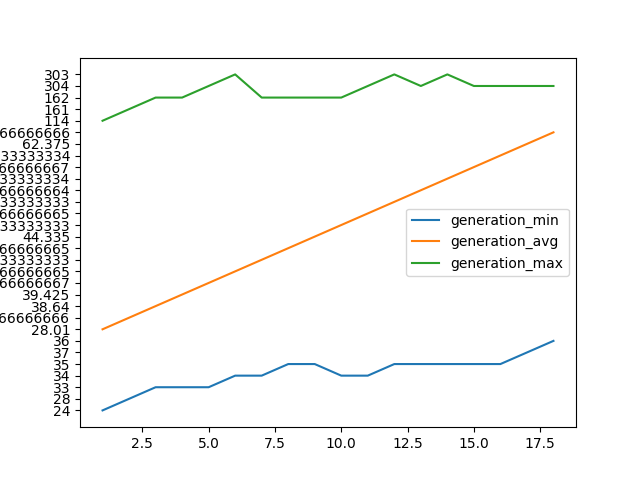
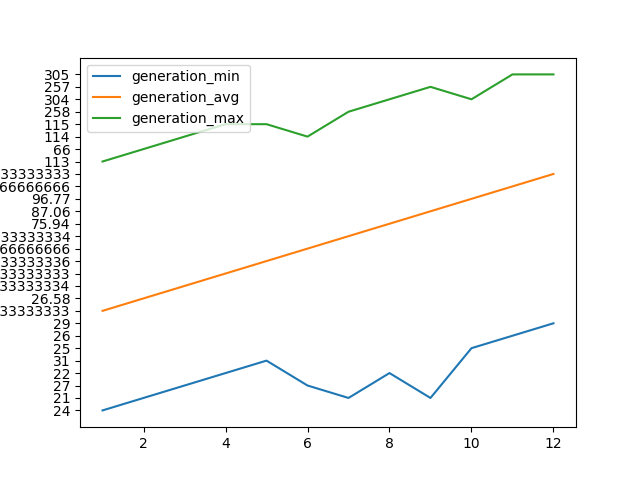
00/11/02 - 18:22 => seems to have gotten better.

diff --git a/evolutionary/evolution.py b/evolutionary/evolution.py
@@ -7,6 +7,7 @@ import random
 import numpy as np
 import math
 import redis
+from operator import attrgetter
 
 
 class Evolution:
@@ -35,6 +36,21 @@ class Evolution:
 
         return
 
+    def roulette_wheel_selection(self,players,num_players):
+        population_fitness = sum([player.fitness for player in players])
+        player_probabilities = [player.fitness/population_fitness for player in players]
+        return list(np.random.choice(players,num_players,p=player_probabilities))
+
+    def q_selection(self,players,num_players,q):
+        new_player = []
+        for i in range(0,num_players):
+            temp = list(np.random.choice(players,q))
+            # print(temp)
+            # print(temp[0])
+            max_attr = max(temp, key=attrgetter('fitness'))
+            new_player.append(max_attr)
+        return new_player
+
 
     def next_population_selection(self, players, num_players):
         """
@@ -45,13 +61,17 @@ class Evolution:
         :param num_players: number of players that we return
         """
         # TODO (Implement top-k algorithm here)
-        players = sorted(players, key=lambda x: x.fitness)
-        players.reverse()
+        rw_q_sus_sort = 2
+        if rw_q_sus_sort == 1:
+            players = self.roulette_wheel_selection(players,num_players)
+        elif rw_q_sus_sort == 2:
+            players = self.q_selection(players,num_players,3)
+        else:
+            players = sorted(players, key=lambda x: x.fitness)
+            players.reverse()
         # sorted_players = sorted_players
-
         # TODO (Additional: Implement roulette wheel here)
         # TODO (Additional: Implement SUS here)
-
         # TODO (Additional: Learning curve)
         avg = 0.0
         min_ = math.inf
@@ -86,11 +106,20 @@ class Evolution:
         else:
             # TODO ( Parent selection and child generation )
             # 1)
-            random.shuffle(prev_players)
             # 2)
             # prev_players = sorted(prev_players, key=lambda x: x.fitness)
             # prev_players.reverse()
             
+            rw_q_sus_sort = 2
+            if rw_q_sus_sort == 1:
+                prev_players = self.roulette_wheel_selection(prev_players,len(prev_players))
+            elif rw_q_sus_sort == 2:
+                prev_players = self.q_selection(prev_players,len(prev_players),2)
+            else:
+                random.shuffle(prev_players)
+
+
+
             counter = 0
             while counter != len(prev_players):
                 parent_1 = prev_players[counter]

diff --git a/evolutionary/temp.py b/evolutionary/temp.py
@@ -1,33 +1,14 @@
 
 import matplotlib.pyplot as plt
 import redis
-# x1 = [1,2,3]
-# y1 = [2,4,1]
-# plt.plot(x1, y1, label = "line 1")
- 
-# x2 = [1,2,3]
-# y2 = [4,1,3]
-# plt.plot(x2, y2, label = "line 2")
- 
-# plt.xlabel('x - axis')
-# plt.ylabel('y - axis')
-# plt.title('Two lines on same graph!')
-# plt.legend()
-# # plt.show()
-# plt.savefig('foo.png')
+import numpy as np
 
 generation = []
 generation_avg = []
 generation_max = []
 generation_min = []
 r = redis.Redis()
-keys = r.keys()
-# keys = map(lambda x:x.decode("utf-8"),keys_)
-# keys = sorted(keys) 
-# print(keys) 
-# print(keys[0]) 
-# print()
-    
+keys = r.keys()    
 for counter in range(1,int(len(keys)/3)+1):
     generation.append(counter)
     generation_max.append(r.get(f'{counter}:max').decode("utf-8"))
@@ -39,6 +20,6 @@ plt.plot(generation, generation_max, label = "generation_max")
 plt.legend()
 plt.savefig('learning_curve.png')
 
-# r.set("1:min",10)
-# print(r.get("1:min").decode("utf-8"))
-# r.flushdb()
+# lst = [1,2,3,4,5]
+# print(lst)
+# print(list(np.random.choice(lst,2,p=[0.3,0.2,0.2,0.1,0.2])))
